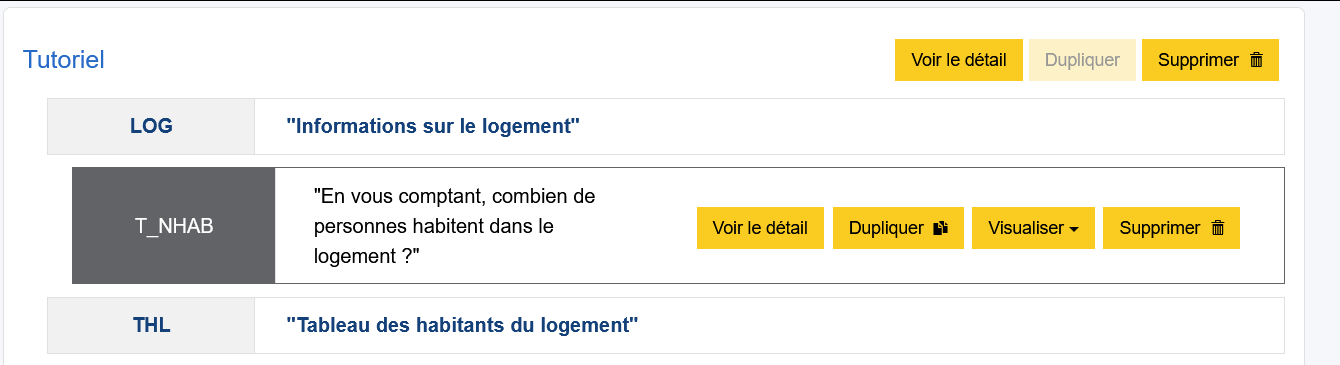
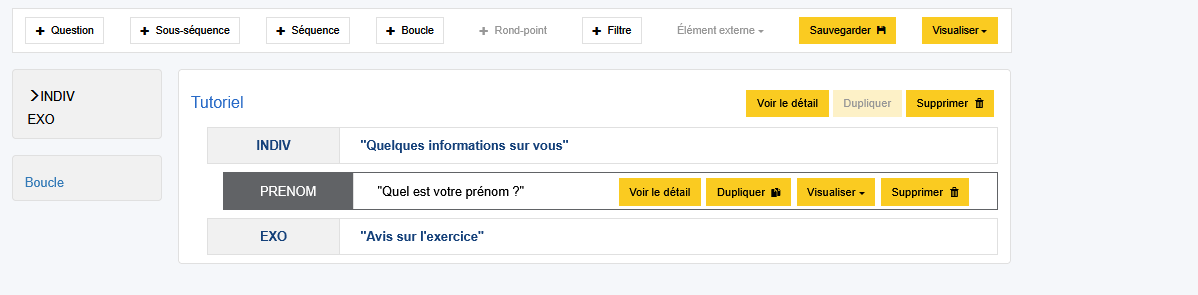
Séquences et première question

diff --git a/bowiedocs/docs/1._Pogues/💡_Tutoriel_(MAJ_en_cours)/11-creation-premiere-sequence.md b/bowiedocs/docs/1._Pogues/💡_Tutoriel_(MAJ_en_cours)/11-creation-premiere-sequence.md
@@ -32,33 +32,29 @@ Une fenêtre modale s'ouvre avec deux champs à remplir obligatoirement :
 Les modes de collecte restent les mêmes que ceux du questionnaire.
 
 !!! example "Cas pratique"
-    Saisissons la première séquence avec le *libellé* `"Informations sur le logement"`.
+    Saisissons la première séquence avec le *libellé* `"Quelques informations sur vous"`.
     
-    Quand on sort du champ *libellé*, on voit que le champ *identifiant* est automatiquement rempli avec `INFORMATIO`. Ici Pogues prend les 10 premiers caractères alphanumériques du libellé les concatène et les met en majuscule. Ce nom est arbitraire et peu parlant pour la suite du questionnaire. Donnons lui l'identifiant `LGT` pour logement.
+    Quand on sort du champ *libellé*, on voit que le champ *identifiant* est automatiquement rempli avec `QUELQUESIN`. Ici Pogues prend les 10 premiers caractères alphanumériques du libellé les concatène et les met en majuscule. Ce nom est arbitraire et peu parlant pour la suite du questionnaire. Donnons lui l'identifiant `INDIV` pour individu.
 
 Pour finaliser la création, on appuie sur le bouton "Valider" en bas de la fenêtre :
 
 ![Valider la séquence](../../img/pogues/creation-sequence-valider.png)
 
 !!! example "Cas pratique"
-    Vous allez créer les 4 séquences qui constituent notre questionnaire "Tutoriel"
+    Vous allez créer les 2 séquences qui constituent notre questionnaire "Tutoriel"
 
     | Identifiant | Libellé |
     | - | - |
-    | `LGT` | `"Informations sur le logement"` |  
-    | `THL` | `"Tableau des habitants du logement"` | 
-    | `QI` | `"Questionnaire individuel"` | 
-    | `QC` | `"Questionnaire commun"` | 
-    | `FIN` | `"Fin du questionnaire"` | 
+    | `INDIV` | `"Quelques informations sur vous"` |  
+    | `EXO` | `"Avis sur l'exercice"` | 
 
 ??? success "Solution"
-    ![alt text](../../img/pogues/solution1-seq-created.png)
+      ![Création des séquences](../../img/pogues/creation-séquence.png)
 
 !!! abstract "Pour aller plus loin"
     - [Les Séquences](../🚀_Guide/10-sequences.md)
 
-!!! warning "Mais ce n'est pas fini..." 
-    On peut voir que le questionnaire est toujours mécontent et nous indique qu'il faut aussi créer au moins une question, ce que nous allons faire de ce pas ! 
+Mais ce n'est pas fini... On peut voir que le questionnaire est toujours mécontent et nous indique qu'il faut aussi créer au moins une question, ce que nous allons faire de ce pas ! 
 
 ## Création d'une question
 Nous allons maintenant créer la première question de notre questionnaire et la placer dans la première séquence.
@@ -66,38 +62,22 @@ Nous allons maintenant créer la première question de notre questionnaire et la
 !!! example "Cas pratique"
     1. PLacez vous sur la première séquence `LOG` : cliquer sur le bloc associé à `LOG`.     
         _Vous devez voir qu'une fois sélectionné, le bloc est mis en évidence par l'encadré en bleu._
-        ![alt text](../../img/pogues/seq-bloc-focused.png)
     2. Dans la barre des actions, le bouton "+ Question" permet la création d'une question.
     3. Suivez les prochaines indications afin de spécifier une question avec les informations suivantes : 
-        - Un identifiant `T_NHAB` 
+        - Un identifiant `PRENOM` 
         - Une réponse simple 
-        - Un type numérique 
-        - Une variable collectée associée de même identifiant `T_NHAB` et caractéristiques
+        - Un type texte de taille 40
+        - Une variable collectée associée de même identifiant `PRENOM` et caractéristiques
 
-### Identification
-
-Dans la fenêtre modale qui apparaît :
-
-- _Libellé_ : `"En vous comptant, combien de personnes habitent dans le logement ?"`
-- _Identifiant_ : `T_NHAB`
-
-### Format de réponse
-
-Pogues propose plusieurs formats de réponse qui peuvent être ensuite paramétrés.
-
-Dans l'onglet "Format des réponses", on choisit comme _Type de question_ "Réponse simple" et _Type de réponse_ "Nombre", ce qui va permettre de créer un champ de réponse numérique.
-
-Puis choisissez un minimum et un maximum (prenons par exemple 1 et 20).
-Ici il n'y a pas de précision (nombre de décimales après la virgule), et pas d'unité de mesure pour cette question.
 
 On revient dans la section suivante sur le détail des options, mais terminons d'abord la création de cette première question en cliquant sur "VALIDER".
 
-![alt text](../../img/pogues/quesiton-creation-validation.png)
+![Validation de la question PRENOM](../../img/pogues/question-validation.png)
 
 Pogues nous alerte d'une anomalie dans l'onglet "Variables collectées" : nous n'avons pas généré les variables collectées !
 Il reste une dernière étape, la création de la variable collectée associée (variable sous-jacente).
 
-![alt text](../../img/pogues/question-creation-missing-collected-var.png)
+![Validation avant d'avoir généré les variables collectées](../../img/pogues/question-creation-missing-collected-var.png)
 
 
 ### Création de la variable
@@ -105,10 +85,9 @@ Il reste une dernière étape, la création de la variable collectée associée 
 Pogues distingue **la question** de **la réponse** de **la donnée collectée, la variable**. Il faut donc explicitement créer cette dernière.
 
 Pour cela, on se dirige vers l'onglet "Variables collectées" puis on clique sur le bouton "Générer les variables collectées".
-![alt text](../../img/pogues/question-creation-generate-collected-var.png)
 
-On voit alors apparaître une variable `T_NHAB`. On peut enfin valider la question en cliquant sur le plus gros bouton "Valider" en bas de la fenêtre.
-![alt text](../../img/pogues/question-creation-generate-collected-var-validation.png)
+On voit alors apparaître une variable `PRENOM`. On peut enfin valider la question en cliquant sur le plus gros bouton "Valider" en bas de la fenêtre.
+![Création des variables collectées](../../img/pogues/question-creation-generate-collected-var-validation.png)
 
 !!! Note
     Lorsque vous validez une question, une fenêtre peut apparaître avec le texte "Modifications non validées. Merci de valider toutes les actions sur l'élément.".
@@ -120,8 +99,8 @@ On voit alors apparaître une variable `T_NHAB`. On peut enfin valider la questi
 
 !!! tip
     Lorsqu'on est sur l'onglet des "Variables Collectées". On peut cliquer sur la variable afin de voir les informations associées.
-    ![alt text](../../img/pogues/generated-collected-var-info.png)
-
+    ![Zoom sur les variables collectées](../../img/pogues/generated-collected-var-info.png)
+    
     Ici, seuls les champs _Identifiant_ et _Libellé_ sont modifiables. Ces champs sont importants pour la documentation de vos variables dans la suite du processus de l'enquête ! Le libellé (description) et l'identifiant doivent vous permettre de vous repérer dans l'ensemble des variables du questionnaire. 
 
     !!! warning 
@@ -133,8 +112,8 @@ On voit alors apparaître une variable `T_NHAB`. On peut enfin valider la questi
 
 ??? success "Solution"
     Pogues est enfin content ! Il ne râle plus et on peut enfin **sauvegarder** notre questionnaire.
-    ![alt text](../../img/pogues/survey-with-1st-question.png)
-
+    ![Questionnaire-séquences-1ère-question](../../img/pogues/survey-with-1st-question.png)
+    
 !!! abstract "Pour aller plus loin"
     - [Les questions](../🚀_Guide/Questions/index.md)
     - [Variables Collectées](../🚀_Guide/Variables/variables-collectees.md)

diff --git a/bowiedocs/docs/1._Pogues/💡_Tutoriel_(MAJ_en_cours)/index.md b/bowiedocs/docs/1._Pogues/💡_Tutoriel_(MAJ_en_cours)/index.md
@@ -21,23 +21,17 @@ L'objectif est de vous permettre de démarrer sereinement avec l'outil, pour les
 ## Présentation du questionnaire pour le tutoriel 📄
 
 ### Contexte
-Étude d'un **dispositif** auprès de ménages.
+Étude des **relations aux travail** auprès d'individus.
 
 ### Structure
 Nous allons créer un questionnaire avec la structure suivante :
 
-- Séquence "Informations sur le logement" :
-    - Questions sur le logement du ménage interrogé
-- Séquence "Tableau des habitants du logement" :
-    - Questions d'identification des individus constituant le ménage
-        - Boucle Principale `BOUCLE_PRENOMS` permettant d'identifier les individus du ménages
-        - Boucle Liée `BOUCLE_INDIV` basée sur `BOUCLE_PRENOMS` permettant de poser une série de questions sur l'état civil de chaque individu du ménage.
-- Séquence "Questionnaire individuel" :
-    - Questions individuelles concernant le dispositif pour chaque
-        - Rond-Point basé sur `BOUCLE_PRENOMS` premettant de naviguer entre les individus plus facilement qu'une boucle afin de leur poser à chacun les questions sur le dispositif.
-        - Exclusion du questionnement les individus ne bénéficiant pas du dispositif 
-- Séquence "Questionnaire commun" :
-    - Questions concernant le dispositif mais pour tout le ménage cette fois
+- Séquence "Quelques informations sur vous" :
+    - Questions sur la personne interrogée pour décrire ses caractéristiques sociales
+- Sous-séquence "Parlez-nous de vos collègues" :
+    - Questions sur les relations avec les collègues dans une boucle 
+- Séquence "Avis sur l'exercice" :
+    - Questions concernant l'exercice pour clôturer le questionnaire
 - Séquence "Fin"
 
 !!! tip
